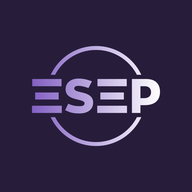
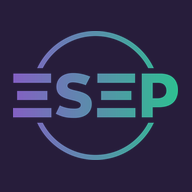
Основной логотип ESEP в круге (фиолетово-зелёный) везде: сайт, кабинет, иконки, письма, PDF/Excel/печать отчётов
Claude-Session: https://claude.ai/code/session_016j2i7vSNUMuNDfhrRqbTzC

Changed region(s): [[0.0625, 0.1562, 0.9375, 0.8438]]

diff --git a/cabinet/index.html b/cabinet/index.html
@@ -1360,6 +1360,12 @@ input[type=text],input[type=email],input[type=tel],input[type=password],input[ty
       .then(() => loadJs('https://cdn.jsdelivr.net/npm/pdfmake@0.2.10/build/vfs_fonts.js')).then(() => window.pdfMake)
       .catch((e) => { pdfLib = null; throw e; }));
   }
+  // логотип ESEP для отчётов (PDF, Excel, печать): берём один раз и держим как dataURL
+  let logoCache = null;
+  const logoData = () => logoCache || (logoCache = fetch('/img/esep-logo-ring.png').then((r) => r.blob()).then((b) => new Promise((ok) => { const fr = new FileReader(); fr.onload = () => ok(String(fr.result)); fr.readAsDataURL(b); })).catch(() => null));
+  const LOGO_HTML = '<img src="/img/esep-logo-ring.png" alt="ESEP" style="position:absolute;top:0;right:0;height:42px">';
+  const pdfLogo = async (land) => { const d = await logoData(); return d ? [{ image: d, width: 52, absolutePosition: { x: (land ? 842 : 595) - 24 - 52, y: 14 } }] : []; };
+  const xlsxLogo = async (wb, ws, col) => { const d = await logoData(); if (!d) return; const id = wb.addImage({ base64: d, extension: 'png' }); ws.addImage(id, { tl: { col, row: 0 }, ext: { width: 66, height: 52 } }); };
   const noEmoji = (t) => String(t == null ? '' : t).replace(/[\u{1F000}-\u{1FAFF}\u{2600}-\u{27BF}\u{FE0F}\u{200D}]/gu, '').replace(/\s{2,}/g, ' ').trim();
   // ---------- Telegram: отчёт себе в Telegram (короткое сообщение + PDF) ----------
   const blobB64 = (b) => new Promise((ok, no) => { const r = new FileReader(); r.onload = () => ok(String(r.result).split(',')[1] || ''); r.onerror = no; r.readAsDataURL(b); });
@@ -1422,6 +1428,7 @@ input[type=text],input[type=email],input[type=tel],input[type=password],input[ty
         ...M.banks.map((r) => [r.name, znum(r.dt), znum(r.kt)])] }, layout: { hLineWidth: () => .4, vLineWidth: () => 0, hLineColor: () => '#e6e6e6' }, fontSize: 8.5 });
     }
     content.push({ text: M.foot + ' Сформировано ' + new Date().toLocaleString('ru-RU', { dateStyle: 'short', timeStyle: 'short' }) + '.', color: '#888', fontSize: 8, margin: [0, 14, 0, 0] });
+    content.unshift(...(await pdfLogo(true)));
     const doc = { pageSize: 'A4', pageOrientation: 'landscape', pageMargins: [28, 26, 28, 30], defaultStyle: { font: 'Roboto', fontSize: 9, color: '#222' }, content,
       footer: (p, n) => ({ text: 'ESEP · esepx.kz   ' + p + ' / ' + n, alignment: 'right', fontSize: 7, color: '#999', margin: [0, 8, 28, 0] }) };
     return new Promise((ok) => pdfMake.createPdf(doc).getBlob(ok));
@@ -1433,6 +1440,7 @@ input[type=text],input[type=email],input[type=tel],input[type=password],input[ty
     const ws = wb.addWorksheet('Отчёт', { pageSetup: { paperSize: 9, orientation: 'landscape', fitToPage: true, fitToWidth: 1, fitToHeight: 0, margins: { left: .4, right: .4, top: .5, bottom: .5, header: .2, footer: .2 } } });
     const n = 2 + M.order.length;
     ws.columns = Array.from({ length: n }, (_, i) => ({ width: i === 0 ? 48 : 15 }));
+    await xlsxLogo(wb, ws, n - 1);
     const BK = ['FF757575', 'FF1565C0', 'FFA07800', 'FFE65100', 'FFB71C1C'];
     const SEC = { dt: ['FFE8F5E9', 'FF1B5E20'], kt: ['FFFDECEA', 'FFB71C1C'], bank: ['FFE8EEF9', 'FF1A3E7A'] };
     const NUM = '#,##0.00;-#,##0.00;""';
@@ -1553,7 +1561,7 @@ input[type=text],input[type=email],input[type=tel],input[type=password],input[ty
         + '.sum{text-align:right;white-space:nowrap;font-variant-numeric:tabular-nums}td.tot{font-weight:700}.hint{font-weight:400;color:#777;font-size:8pt;margin-left:4px}.cnt{font-weight:400;color:#999;font-size:8pt;margin-left:6px}'
         + '.tag2{display:inline-block;margin-left:6px;padding:0 5px;border-radius:3px;background:#fff3e0;color:#b26a00;font-size:7.5pt;white-space:nowrap}'
         + '.dot{margin-right:5px}.b4{color:#b71c1c}.b3{color:#e65100}.b2{color:#a07800}.b1{color:#1565c0}.b0{color:#757575}.foot{color:#888;font-size:8pt;margin-top:6px;border-top:1px solid #eee;padding-top:6px;line-height:1.45}'
-        + '</style></head><body><div class="trep">' + repHtml(repModel(cur(), currentFirm && currentFirm.name), true) + '</div></body></html>');
+        + '</style></head><body style="position:relative">' + LOGO_HTML + '<div class="trep">' + repHtml(repModel(cur(), currentFirm && currentFirm.name), true) + '</div></body></html>');
       w.document.close();
       setTimeout(() => { w.print(); setTimeout(() => { const f = document.getElementById('print-frame'); if (f) f.remove(); }, 500); }, 400);
     };
@@ -1661,6 +1669,7 @@ input[type=text],input[type=email],input[type=tel],input[type=password],input[ty
     const ws = wb.addWorksheet('Отчёт', { pageSetup: { paperSize: 9, orientation: 'portrait', fitToPage: true, fitToWidth: 1, fitToHeight: 0, margins: { left: .4, right: .4, top: .5, bottom: .5, header: .2, footer: .2 } } });
     ws.columns = [{ width: 55 }, ...S.cols.map((c) => ({ width: c.k === 'basis' ? 50 : c.fmt === 'money' ? 16 : c.tone ? 19 : c.k === 'number' ? 9 : 12 })), { width: 13 }];
     const NC = S.cols.length + 2;
+    await xlsxLogo(wb, ws, NC - 1);
     const thin = { style: 'thin', color: { argb: 'FF9E9E9E' } };
     const box = (r) => { for (let i = 1; i <= NC; i++) r.getCell(i).border = { top: thin, left: thin, bottom: thin, right: thin }; };
     ws.addRow([(currentFirm && currentFirm.name) || '']).getCell(1).font = { bold: true, size: 15 };
@@ -1698,7 +1707,7 @@ input[type=text],input[type=email],input[type=tel],input[type=password],input[ty
     const nt = repNote(F, S);
     const widths = ['*', ...S.cols.map((c) => c.k === 'basis' ? (land ? 190 : 130) : c.k === 'number' ? (land ? 40 : 32) : c.fmt === 'date' ? (land ? 60 : 52) : c.fmt === 'money' ? (land ? 85 : 70) : (land ? 95 : 78)), land ? 40 : 30];
     const doc = { pageSize: 'A4', pageOrientation: land ? 'landscape' : 'portrait', pageMargins: [24, 26, 24, 30], defaultStyle: { font: 'Roboto', fontSize: land ? 9 : 8, color: '#222' },
-      content: [{ text: (currentFirm && currentFirm.name) || '', fontSize: 15, bold: true }, { text: ev.title, color: '#666', margin: [0, 2, 0, nt ? 2 : 10] },
+      content: [...(await pdfLogo(land)), { text: (currentFirm && currentFirm.name) || '', fontSize: 15, bold: true }, { text: ev.title, color: '#666', margin: [0, 2, 0, nt ? 2 : 10] },
         ...(nt ? [{ text: 'Отбор: ' + nt, color: '#666', italics: true, margin: [0, 0, 0, 10] }] : []),
         { table: { headerRows: 1, dontBreakRows: true, widths, body }, layout: { hLineWidth: (i, node) => i === 1 || i === node.table.body.length - 1 ? 1 : .5, vLineWidth: () => .5, hLineColor: () => '#9e9e9e', vLineColor: () => '#9e9e9e', paddingTop: () => 3, paddingBottom: () => 3 } },
         { text: 'Данные из 1С на ' + invD((ev.details || {}).date) + '. ' + S.foot + ' Сформировано ' + new Date().toLocaleString('ru-RU', { dateStyle: 'short', timeStyle: 'short' }) + '.', color: '#888', fontSize: 8, margin: [0, 12, 0, 0] }],
@@ -1795,7 +1804,7 @@ input[type=text],input[type=email],input[type=tel],input[type=password],input[ty
         + 'tr.grp td{font-weight:700;background:#fafafa;padding-top:7px;border-bottom:1px solid #ccc}.cnt{font-weight:400;color:#888;font-size:8pt;margin-left:4px}'
         + '.sum{text-align:right;white-space:nowrap;font-variant-numeric:tabular-nums}.c{text-align:center;width:40px}.ok,.part,.no{white-space:nowrap}.ok{color:#2e7d32}.part{color:#b26a00}.no{color:#c62828}'
         + 'tr.mk td{color:#999!important;text-decoration:line-through}tr.mk td.c{text-decoration:none}tr.tot td{font-weight:700;border-top:2px solid #999;border-bottom:0;background:#f1f1f1}'
-        + '.foot{color:#888;font-size:8pt;margin-top:10px}</style></head><body>'
+        + '.foot{color:#888;font-size:8pt;margin-top:10px}</style></head><body style="position:relative">' + LOGO_HTML
         + '<h1>' + esc((currentFirm && currentFirm.name) || '') + '</h1><div class="sub">' + S.title + ' · данные из 1С на ' + invD(d.date) + ' · ' + vis.length + ' ' + S.abbr + (S.hasSum ? ' на ' + tot : '') + '</div>'
         + (nt ? '<div class="nt">Отбор: ' + esc(nt) + '</div>' : '')
         + '<table><thead><tr><th>' + (flat ? 'Контрагент' : '') + '</th>' + S.cols.map((c) => '<th' + (c.fmt === 'money' ? ' class="sum"' : '') + '>' + c.h + '</th>').join('') + '<th class="c">Отраб.</th></tr></thead><tbody>' + rows + totRow + '</tbody></table>'

diff --git a/theme.js b/theme.js
@@ -15,7 +15,7 @@
     if (t === 'auto') root.removeAttribute('data-theme'); else root.setAttribute('data-theme', t);
     var m = document.querySelector('meta[name="theme-color"]'); if (m) m.setAttribute('content', e === 'light' ? '#ffffff' : '#271d3b');
     var imgs = document.querySelectorAll('img[data-logo]');
-    for (var i = 0; i < imgs.length; i++) imgs[i].src = e === 'light' ? '/img/esep-logo-ring-dark.png' : '/img/esep-logo-ring.png';
+    for (var i = 0; i < imgs.length; i++) imgs[i].src = '/img/esep-logo-ring.png';
     var bs = document.querySelectorAll('[data-theme-toggle]');
     for (var j = 0; j < bs.length; j++) { bs[j].innerHTML = ICON[e === 'light' ? 'light' : 'dark']; bs[j].title = 'Оформление: ' + NAME[t].toLowerCase(); bs[j].setAttribute('aria-label', 'Оформление: ' + NAME[t].toLowerCase()); }
     var items = document.querySelectorAll('.theme-menu [data-t]');
